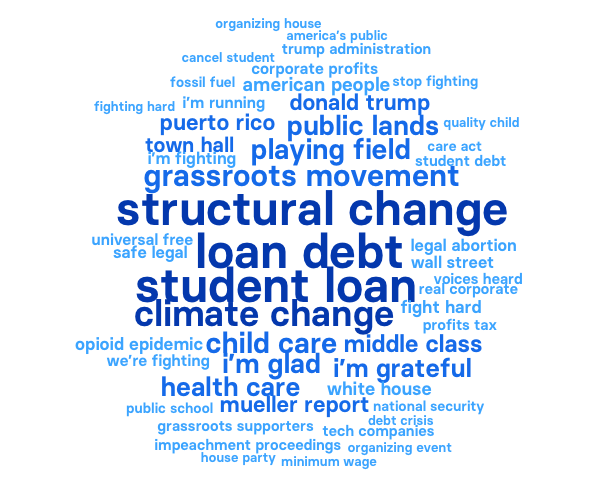
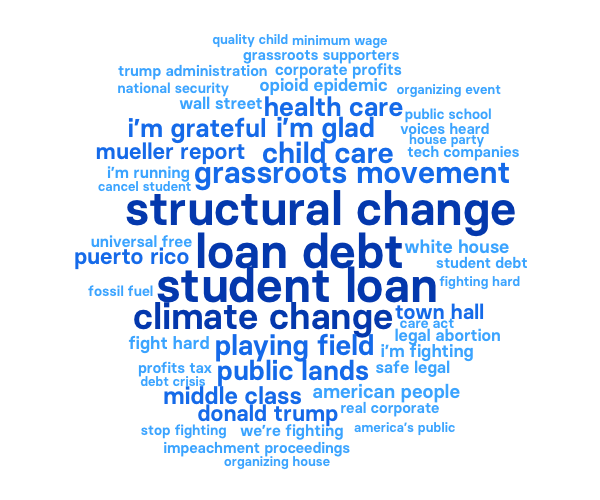
final headline

Changed region(s): [[0.12, 0.03, 0.9, 0.96]]

diff --git a/index.html b/index.html
@@ -2617,8 +2617,8 @@ $(document).ready(function () {
 </div>
 
 
-<div id="which-democratic-presidential-candidate-is-this" class="section level1">
-<h1>Can You Guess These Presidential Candidates Based On What They Tweet About?</h1>
+<div id="can-you-guess-these-presidential-candidates-based-on-their-most-popular-talking-points" class="section level1">
+<h1>Can You Guess These Presidential Candidates Based On Their Most Popular Talking Points?</h1>
 <p>Data and <a href="https://www.r-project.org/">R</a> code for <a href="https://www.buzzfeednews.com/article/peteraldhous/2020-election-democratic-primary-tweets">this Jun. 6 BuzzFeed News quiz</a>, asking readers if they can recognize the candidates from their signature two-word phrases on Twitter.</p>
 <div id="data" class="section level3">
 <h3>Data</h3>
@@ -2658,8 +2658,8 @@ summary &lt;- tweets %&gt;%
             tweets = n())
 
 datatable(summary)</code></pre>
-<div id="htmlwidget-2081fd0b8efa766bf54b" style="width:100%;height:auto;" class="datatables html-widget"></div>
-<script type="application/json" data-for="htmlwidget-2081fd0b8efa766bf54b">{"x":{"filter":"none","data":[["1","2","3","4","5","6","7","8","9","10","11","12","13","14","15","16","17","18","19","20","21","22","23"],["amyklobuchar","AndrewYang","BernieSanders","BetoORourke","BilldeBlasio","CoryBooker","ericswalwell","ewarren","GovernorBullock","Hickenlooper","JayInslee","JoeBiden","JohnDelaney","JulianCastro","KamalaHarris","marwilliamson","MichaelBennet","PeteButtigieg","SenGillibrand","sethmoulton","TimRyan","TulsiGabbard","WayneMessam"],["2019-02-10","2017-11-06","2019-02-19","2019-03-14","2019-05-16","2019-02-01","2019-04-09","2019-02-09","2019-05-14","2019-03-04","2019-03-01","2019-04-25","2017-07-28","2019-01-12","2019-01-21","2019-01-28","2019-05-02","2019-01-23","2019-03-17","2019-04-22","2019-04-04","2019-01-11","2019-03-28"],["2019-03-09","2019-03-09","2019-03-09","2019-03-14","2019-05-16","2019-03-09","2019-04-09","2019-03-09","2019-05-14","2019-03-09","2019-03-09","2019-04-25","2019-03-09","2019-03-09","2019-03-09","2019-03-09","2019-05-02","2019-03-09","2019-03-17","2019-04-22","2019-04-04","2019-03-09","2019-03-28"],[618,1997,943,1188,106,684,868,1169,235,551,1188,197,1204,768,804,939,237,508,691,425,748,310,370]],"container":"<table class=\"display\">\n  <thead>\n    <tr>\n      <th> <\/th>\n      <th>screen_name<\/th>\n      <th>announced<\/th>\n      <th>first<\/th>\n      <th>tweets<\/th>\n    <\/tr>\n  <\/thead>\n<\/table>","options":{"columnDefs":[{"className":"dt-right","targets":4},{"orderable":false,"targets":0}],"order":[],"autoWidth":false,"orderClasses":false}},"evals":[],"jsHooks":[]}</script>
+<div id="htmlwidget-596c6098b946458f6d4f" style="width:100%;height:auto;" class="datatables html-widget"></div>
+<script type="application/json" data-for="htmlwidget-596c6098b946458f6d4f">{"x":{"filter":"none","data":[["1","2","3","4","5","6","7","8","9","10","11","12","13","14","15","16","17","18","19","20","21","22","23"],["amyklobuchar","AndrewYang","BernieSanders","BetoORourke","BilldeBlasio","CoryBooker","ericswalwell","ewarren","GovernorBullock","Hickenlooper","JayInslee","JoeBiden","JohnDelaney","JulianCastro","KamalaHarris","marwilliamson","MichaelBennet","PeteButtigieg","SenGillibrand","sethmoulton","TimRyan","TulsiGabbard","WayneMessam"],["2019-02-10","2017-11-06","2019-02-19","2019-03-14","2019-05-16","2019-02-01","2019-04-09","2019-02-09","2019-05-14","2019-03-04","2019-03-01","2019-04-25","2017-07-28","2019-01-12","2019-01-21","2019-01-28","2019-05-02","2019-01-23","2019-03-17","2019-04-22","2019-04-04","2019-01-11","2019-03-28"],["2019-03-09","2019-03-09","2019-03-09","2019-03-14","2019-05-16","2019-03-09","2019-04-09","2019-03-09","2019-05-14","2019-03-09","2019-03-09","2019-04-25","2019-03-09","2019-03-09","2019-03-09","2019-03-09","2019-05-02","2019-03-09","2019-03-17","2019-04-22","2019-04-04","2019-03-09","2019-03-28"],[618,2000,947,1190,106,687,869,1172,238,551,1190,197,1210,768,805,941,240,508,692,428,749,310,370]],"container":"<table class=\"display\">\n  <thead>\n    <tr>\n      <th> <\/th>\n      <th>screen_name<\/th>\n      <th>announced<\/th>\n      <th>first<\/th>\n      <th>tweets<\/th>\n    <\/tr>\n  <\/thead>\n<\/table>","options":{"columnDefs":[{"className":"dt-right","targets":4},{"orderable":false,"targets":0}],"order":[],"autoWidth":false,"orderClasses":false}},"evals":[],"jsHooks":[]}</script>
 </div>
 <div id="setting-up-for-text-analysis" class="section level3">
 <h3>Setting up for text analysis</h3>
@@ -2704,7 +2704,7 @@ bigrams &lt;- bigrams %&gt;%
 for (p in unique(bigram_count$full_name)) {
   tmp &lt;- bigram_count %&gt;%
     filter(full_name == p)
-  png(paste0(&quot;wordclouds/&quot;,p,&quot;.png&quot;), width = 792, height = 660)
+  png(paste0(&quot;wordclouds/&quot;,p,&quot;.png&quot;), width = 600, height = 500)
   try(wordcloud(tmp$bigram,
                 tmp$n,
                 family = &quot;BasierSquare-SemiBold&quot;,
